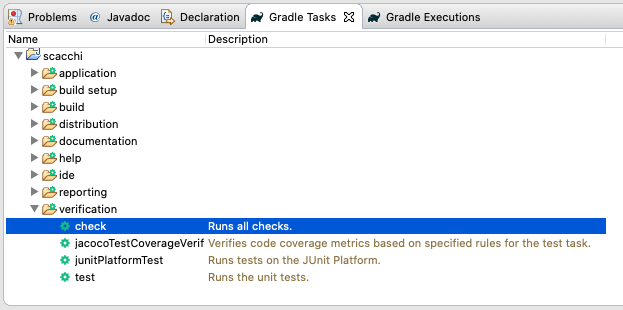
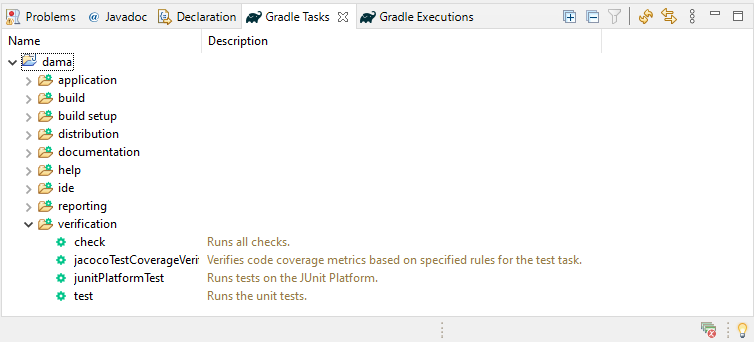
Modificate immagini ed eliminate occorrenze di Scacchi

Changed region(s): [[0.0, 0.0, 1.0, 0.929], [0.0, 0.929, 1.0, 0.9871]]

diff --git a/Guida per lo studente.md b/Guida per lo studente.md
@@ -145,7 +145,7 @@ Per aggiungere il badge che riporta l'ultimo esito dell'esecuzione del workflow 
   ![Update_GitHub_badge_3](./res/img/guida-studente/Update_GitHub_badge_3.png)
 - La modifica del file Markdown `README.md`sarà fatta come parte dei task dello *Sprint 0* incollando il codice markdown per la costruzione del badge in cima al `README.md`, accanto al titolo del repository.
 
-Il titolo del README.md dovrà apparire come nella seguente figura, con *Dama italiana* al posto di *scacchi*:
+Il titolo del README.md dovrà apparire come nella seguente figura:
 
 ![actions-badge](./res/img/guida-studente/actions-badge.png)
 
@@ -186,7 +186,7 @@ I passi per ottenere il badge di Coveralls sono i seguenti:
 - copiare il codice markdown per la richiesta del badge;
   ![CoverallsBadge_2](./res/img/guida-studente/CoverallsBadge_2.png)
 - La modifica del file Markdown `README.md`sarà fatta come parte dei task dello *Sprint 0* incollando il codice markdown per la costruzione del badge in cima al `README.md`, accanto al titolo del repository.
-- Alla fine, il file `README.md` dovrà mostrare due badge, simili a quelli riportati nella figura sottostante, con *Dama italiana* al posto di *scacchi*:
+- Alla fine, il file `README.md` dovrà mostrare due badge, simili a quelli riportati nella figura sottostante:
 ![actions+coveralls-badges](./res/img/guida-studente/actions+coveralls-badges.png)
 
 #### Troubleshooting
